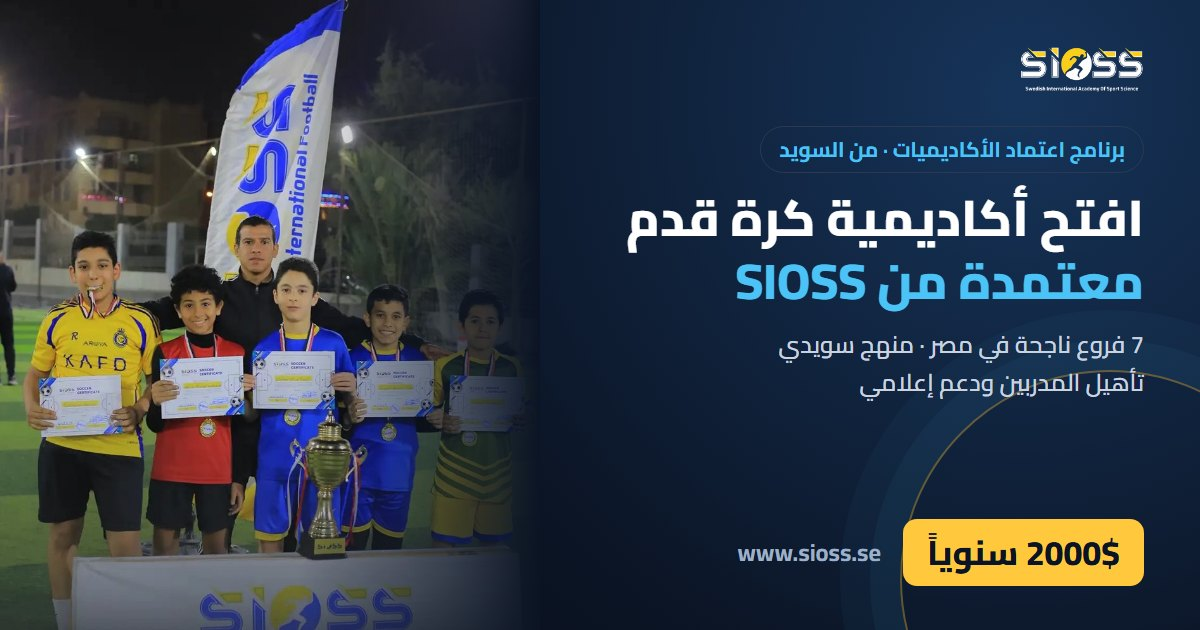
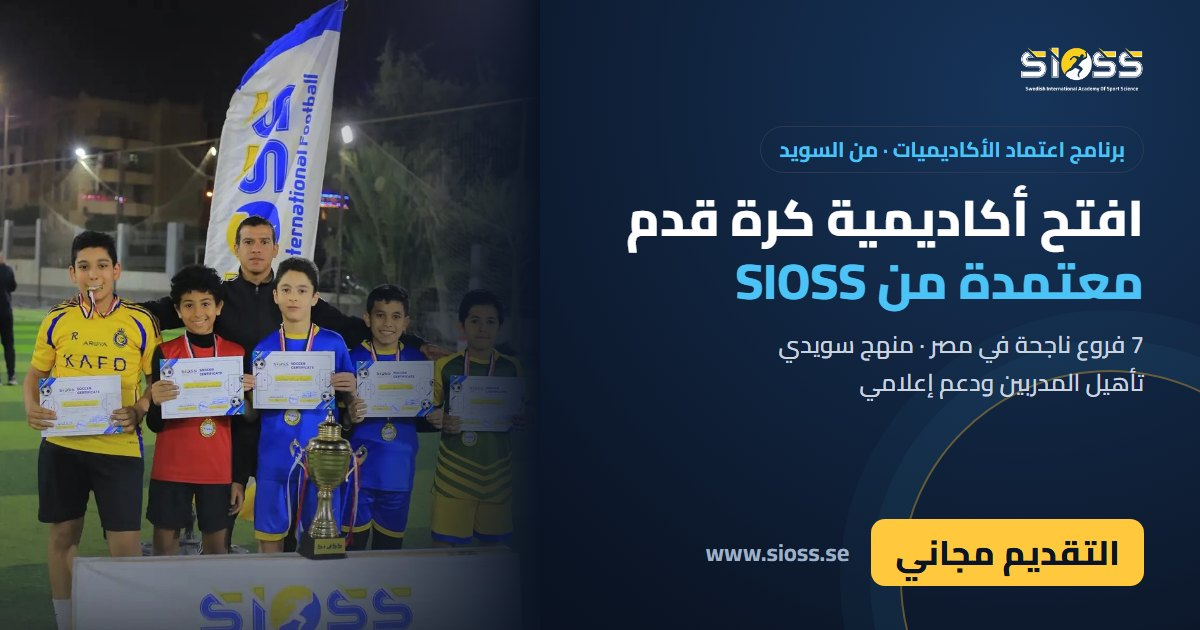
Academy licence: fees by country tier, coach courses in the conditions

Changed region(s): [[0.5858, 0.8143, 0.9558, 0.9349]]

diff --git a/academy-license.html b/academy-license.html
@@ -109,6 +109,12 @@
   .lform button[disabled] { opacity:.6; cursor:wait; }
   .lmsg { display:none; padding:12px 14px; border-radius:10px; }
   .lmsg.show { display:block; } .lmsg.good { background:#12351f; border:1px solid #1f9d55; } .lmsg.bad { background:#3a1717; border:1px solid #c0392b; }
+  .tiers { display:grid; grid-template-columns:repeat(4,1fr); gap:12px; }
+  .tier { background:var(--dark-2); border:1px solid var(--border); border-top:4px solid var(--gold); border-radius:var(--radius); padding:16px 18px; }
+  .tier b { display:block; font-size:30px; color:var(--gold); line-height:1.3; }
+  .tier span { color:var(--text-muted); font-size:14px; }
+  .tier p { margin:8px 0 0; font-weight:700; font-size:15px; }
+  @media (max-width:760px) { .tiers { grid-template-columns:1fr 1fr; } }
 </style>
 </head>
 <body>
@@ -187,7 +193,7 @@
   <ol class="terms" start="6">
     <li>استخدام اسم SIOSS International Football Academy وشعارها وفق دليل الهوية، وأخذ موافقة SIOSS على المطبوعات والإعلانات قبل نشرها.</li>
     <li>تطبيق المنهج التدريبي لـ SIOSS حسب الفئات العمرية.</li>
-    <li>إكمال المدربين برنامج التأهيل الذي تحدده SIOSS خلال الأشهر الثلاثة الأولى.</li>
+    <li>إكمال المدربين برنامج تأهيل SIOSS خلال الأشهر الثلاثة الأولى، ويشمل دورات SIOSS الأونلاين: <a href="football-fitness-course.html">مدرب اللياقة البدنية في كرة القدم</a>، و<a href="football-tactics-course.html">التكتيك في كرة القدم</a>، و<a href="first-aid-cpr-course.html">الإسعافات الأولية والإنعاش القلبي الرئوي</a>.</li>
     <li>سلامة الأطفال وحمايتهم: إشراف دائم، وحقيبة إسعافات أولية، ومدرب واحد على الأقل حاصل على دورة الإسعافات الأولية في كل تدريب، وسياسة واضحة لحماية الطفل.</li>
     <li>الالتزام بأنظمة البلد والجهات الرياضية المختصة، وتحمّل المسؤولية القانونية والمالية الكاملة عن تشغيل الأكاديمية.</li>
     <li>تقرير كل ثلاثة أشهر عن عدد اللاعبين والأنشطة والبطولات، والسماح لـ SIOSS بزيارة الأكاديمية أو تقييمها أونلاين.</li>
@@ -195,7 +201,7 @@
   </ol>
   <h3 class="part">ثالثاً: الرسوم والتجديد</h3>
   <ol class="terms" start="13">
-    <li>رسوم الاعتماد <b>2000 دولار سنوياً لكل فرع</b>. من يريد فرعين يدفع 4000 دولار، وهكذا.</li>
+    <li>رسوم الاعتماد سنوية لكل فرع، وتختلف حسب البلد (<a href="#fees">انظر جدول الرسوم</a>). من يريد فرعين يدفع رسوم فرعين، وهكذا.</li>
     <li>الاعتماد لفرع واحد في موقع محدد، ومنطقة جغرافية يحددها العقد، ولا تمنح SIOSS اعتماداً آخر داخلها ما دامت الأكاديمية ملتزمة بالمعايير.</li>
     <li>تُدفع الرسوم كاملة خلال سبعة أيام من توقيع العقد، وقبل استخدام اسم SIOSS.</li>
     <li>مدة العقد سنة واحدة، ويُجدَّد سنوياً بعد التقييم السنوي ودفع رسوم السنة الجديدة، وللأكاديمية الملتزمة أولوية التجديد في منطقتها.</li>
@@ -207,13 +213,16 @@
   </ol>
 </div></section>
 
-<section><div class="wrap">
-  <h2>رسوم الاعتماد</h2>
-  <div class="fees">
-    <div class="fact"><b>مجاناً</b><small>تقديم الطلب ودراسته والمقابلة</small></div>
-    <div class="fact"><b>2000$</b><small>لكل فرع سنوياً، تُدفع بعد توقيع العقد</small></div>
-    <div class="fact"><b>سنة</b><small>مدة العقد، يتجدد سنوياً بعد التقييم</small></div>
+<section id="fees"><div class="wrap">
+  <h2>رسوم الاعتماد حسب البلد</h2>
+  <p class="sub">تختلف الرسوم السنوية لكل فرع حسب القوة الشرائية في البلد، حتى تكون مناسبة للأكاديمية وللأهالي. تقديم الطلب مجاني، والرسوم تُدفع بعد توقيع العقد.</p>
+  <div class="tiers">
+    <div class="tier"><b>3500$</b><span>لكل فرع سنوياً</span><p>قطر · الإمارات · الكويت</p></div>
+    <div class="tier"><b>3000$</b><span>لكل فرع سنوياً</span><p>السعودية · البحرين · عُمان · أوروبا وأمريكا الشمالية</p></div>
+    <div class="tier"><b>2000$</b><span>لكل فرع سنوياً</span><p>العراق · ليبيا · الأردن · الجزائر · تركيا</p></div>
+    <div class="tier"><b>1200$</b><span>لكل فرع سنوياً</span><p>مصر · المغرب · تونس · لبنان · فلسطين · موريتانيا · السودان · سوريا · اليمن</p></div>
   </div>
+  <p class="branches">بلدك غير موجود في القائمة؟ اكتبه في نموذج الطلب ونحدد الفئة المناسبة. كل فرع إضافي برسوم مستقلة حسب الفئة نفسها.</p>
 </div></section>
 
 <section><div class="wrap">
@@ -221,7 +230,7 @@
   <ol class="steps">
     <li><b>تقديم الطلب</b>تملأ نموذج الطلب في أسفل الصفحة مجاناً.</li>
     <li><b>دراسة الطلب</b>نراجع طلبك ونتواصل معك خلال سبعة أيام، ثم مقابلة أونلاين وجولة مصوّرة في الملعب.</li>
-    <li><b>العقد والرسوم</b>عند الموافقة نرسل العقد، وبعد توقيعه تدفع رسوم السنة الأولى (2000$ لكل فرع).</li>
+    <li><b>العقد والرسوم</b>عند الموافقة نرسل العقد، وبعد توقيعه تدفع رسوم السنة الأولى لكل فرع حسب فئة بلدك.</li>
     <li><b>التأسيس والانطلاق</b>تسليم الهوية والمنهج، وتأهيل المدربين، ثم إعلان الافتتاح على منصات SIOSS.</li>
   </ol>
 </div></section>
@@ -246,10 +255,10 @@
       <div class="lmsg" id="lmsg" role="status"></div>
     </form>
     <div>
-      <details open><summary>هل تقديم الطلب مجاني؟</summary><p>نعم. تقديم الطلب ودراسته والمقابلة مجانية. تدفع رسوم الاعتماد (2000$ لكل فرع سنوياً) بعد الموافقة وتوقيع العقد فقط.</p></details>
+      <details open><summary>هل تقديم الطلب مجاني؟</summary><p>نعم. تقديم الطلب ودراسته والمقابلة مجانية. تدفع رسوم الاعتماد السنوية لكل فرع، حسب فئة بلدك، بعد الموافقة وتوقيع العقد فقط.</p></details>
       <details><summary>من يستطيع التقديم؟</summary><p>المدربون وأصحاب الأكاديميات الحالية، والأندية والمدارس الخاصة، والمستثمرون في المجال الرياضي، ممن يملكون ملعباً مناسباً وطاقماً تدريبياً أو يستطيعون توفيره.</p></details>
       <details><summary>هل أستطيع تحويل أكاديميتي الحالية إلى أكاديمية SIOSS؟</summary><p>نعم. تنضم الأكاديمية القائمة إلى البرنامج فتحصل على الاسم والمنهج والتأهيل والدعم الإعلامي، مع الحفاظ على لاعبيها وطاقمها.</p></details>
-      <details><summary>أريد أكثر من فرع في مدينتي. كيف؟</summary><p>الاعتماد لكل فرع على حدة: كل فرع برسوم 2000$ سنوياً وبموقع محدد في العقد. اكتب عدد الفروع في النموذج.</p></details>
+      <details><summary>أريد أكثر من فرع في مدينتي. كيف؟</summary><p>الاعتماد لكل فرع على حدة: كل فرع برسوم سنوية مستقلة حسب فئة البلد، وبموقع محدد في العقد. اكتب عدد الفروع في النموذج.</p></details>
       <details><summary>في أي دول يمكن التقديم؟</summary><p>نستقبل الطلبات من السعودية ودول الخليج والعراق وبقية الدول العربية وغيرها، على أن تلتزم الأكاديمية بأنظمة بلدها.</p></details>
       <p style="margin-top:14px"><a class="btn ghost" id="waBtn" target="_blank" rel="noopener">عندي سؤال: واتساب</a></p>
     </div>

diff --git a/i18n.js b/i18n.js
@@ -114,7 +114,7 @@ const TRANSLATIONS = {
     promo8_lead:      'We license organisations and coaches to open an academy under the name SIOSS International Football Academy, with a Swedish training curriculum, coach education and continuous media and technical support. Seven branches already succeed in Egypt; applications are now open in Saudi Arabia, the Gulf, Iraq and beyond.',
     promo8_f1:        'licensed branches in Egypt',
     promo8_f2:        'age groups, boys and girls',
-    promo8_f3:        'per branch per year',
+    promo8_f3:        'per branch per year, by country',
     promo8_f4:        'free to apply',
     promo8_btn1:      'Apply for a licence',
     promo8_btn2:      'What you get',
@@ -399,7 +399,7 @@ const TRANSLATIONS = {
     promo8_lead:      'نمنح المؤسسات والمدربين الطموحين إذناً رسمياً لافتتاح أكاديمية تحمل اسم SIOSS International Football Academy، بمنهج تدريبي سويدي، وتأهيل للمدربين، ودعم إعلامي وفني متواصل. نجحت التجربة في مصر بسبعة فروع، والتقديم مفتوح الآن في السعودية ودول الخليج والعراق وغيرها.',
     promo8_f1:        'فروع معتمدة في مصر',
     promo8_f2:        'سنة: برامج للبنين والبنات',
-    promo8_f3:        'لكل فرع سنوياً',
+    promo8_f3:        'لكل فرع سنوياً، حسب البلد',
     promo8_f4:        'تقديم الطلب مجاني',
     promo8_btn1:      'قدّم طلب الاعتماد',
     promo8_btn2:      'ماذا تحصل عليه؟',

diff --git a/index.html b/index.html
@@ -340,7 +340,7 @@
         <ul class="promo-facts">
           <li><b>7</b><span data-i18n="promo8_f1">licensed branches in Egypt</span></li>
           <li><b>3–15</b><span data-i18n="promo8_f2">age groups, boys and girls</span></li>
-          <li><b>$2000</b><span data-i18n="promo8_f3">per branch per year</span></li>
+          <li><b>$1200+</b><span data-i18n="promo8_f3">per branch per year, by country</span></li>
           <li><b>$0</b><span data-i18n="promo8_f4">free to apply</span></li>
         </ul>
         <div class="promo-actions">
